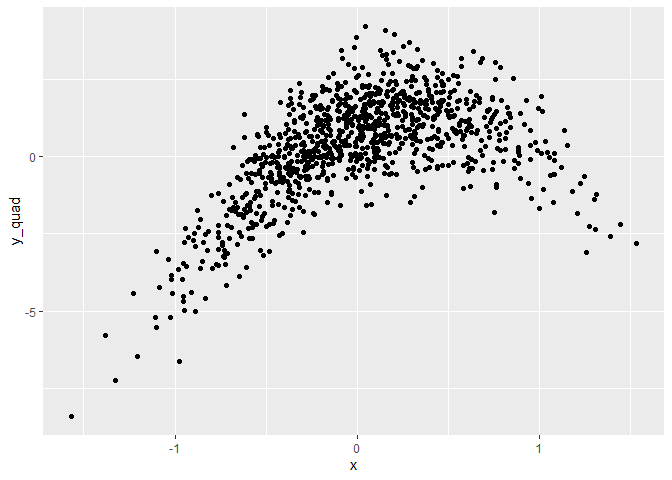
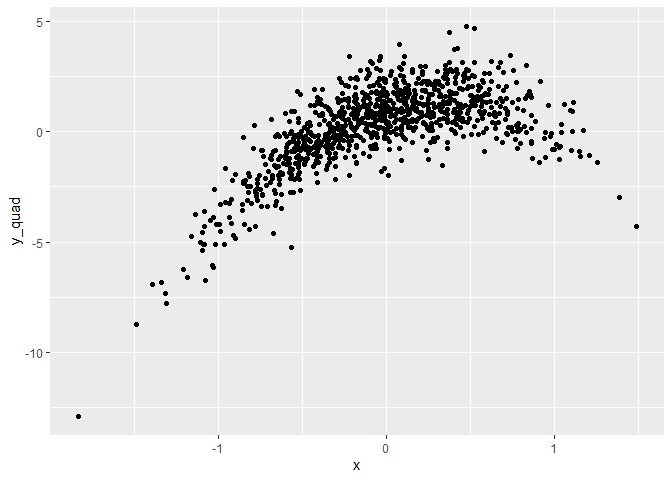
add y histogram to plot rmd

diff --git a/Building-blocks-1-2-3.md b/Building-blocks-1-2-3.md
@@ -14,13 +14,13 @@ y = c(1,3,17,25)
 mean(x)
 ```
 
-    ## [1] 0.5221123
+    ## [1] 0.475498
 
 ``` r
 var(x)
 ```
 
-    ## [1] 0.09250944
+    ## [1] 0.07017989
 
 ## data frames
 
@@ -66,19 +66,29 @@ ggplot(plot_df, aes(x = x)) + geom_histogram()
 
     ## `stat_bin()` using `bins = 30`. Pick better value with `binwidth`.
 
-![](Building-blocks-1-2-3_files/figure-gfm/unnamed-chunk-4-1.png)<!-- -->
+![](Building-blocks-1-2-3_files/figure-gfm/x_hist-1.png)<!-- -->
 
 ``` r
 # first thing is what data set, second is what I put in x-axis, and than going to say what kind of polt I want to draw
 ```
 
-Next we show a scatterplot of `y` vs `x`
+Next, we show a scatterplot of `y` vs `x`
 
 ``` r
 ggplot(plot_df, aes(x = x, y = y_quad)) + geom_point()
 ```
 
-![](Building-blocks-1-2-3_files/figure-gfm/unnamed-chunk-5-1.png)<!-- -->
+![](Building-blocks-1-2-3_files/figure-gfm/yx_scatter-1.png)<!-- -->
+
+Lastly, we show a histogram of the `y` variable.
+
+``` r
+ggplot(plot_df, aes(x = y)) + geom_histogram()     
+```
+
+    ## `stat_bin()` using `bins = 30`. Pick better value with `binwidth`.
+
+![](Building-blocks-1-2-3_files/figure-gfm/y_hist-1.png)<!-- -->
 
 ``` r
 plot_df = tibble(
@@ -92,13 +102,13 @@ ggplot(plot_df, aes(x = x)) + geom_histogram()
 
     ## `stat_bin()` using `bins = 30`. Pick better value with `binwidth`.
 
-![](Building-blocks-1-2-3_files/figure-gfm/unnamed-chunk-6-1.png)<!-- -->
+![](Building-blocks-1-2-3_files/figure-gfm/unnamed-chunk-4-1.png)<!-- -->
 
 ``` r
 ggplot(plot_df, aes(x = x, y = y_quad)) + geom_point()
 ```
 
-![](Building-blocks-1-2-3_files/figure-gfm/unnamed-chunk-6-2.png)<!-- -->
+![](Building-blocks-1-2-3_files/figure-gfm/unnamed-chunk-4-2.png)<!-- -->
 
 # Writing with data
 
@@ -119,8 +129,8 @@ length(samp)
 
 ## Section 2
 
-I can take the mean of the sample, too! The mean is 0.2456589. (Inline R
-code)
+I can take the mean of the sample, too! The mean is -0.0479568. (Inline
+R code)
 
 ### Code chunk options
 
